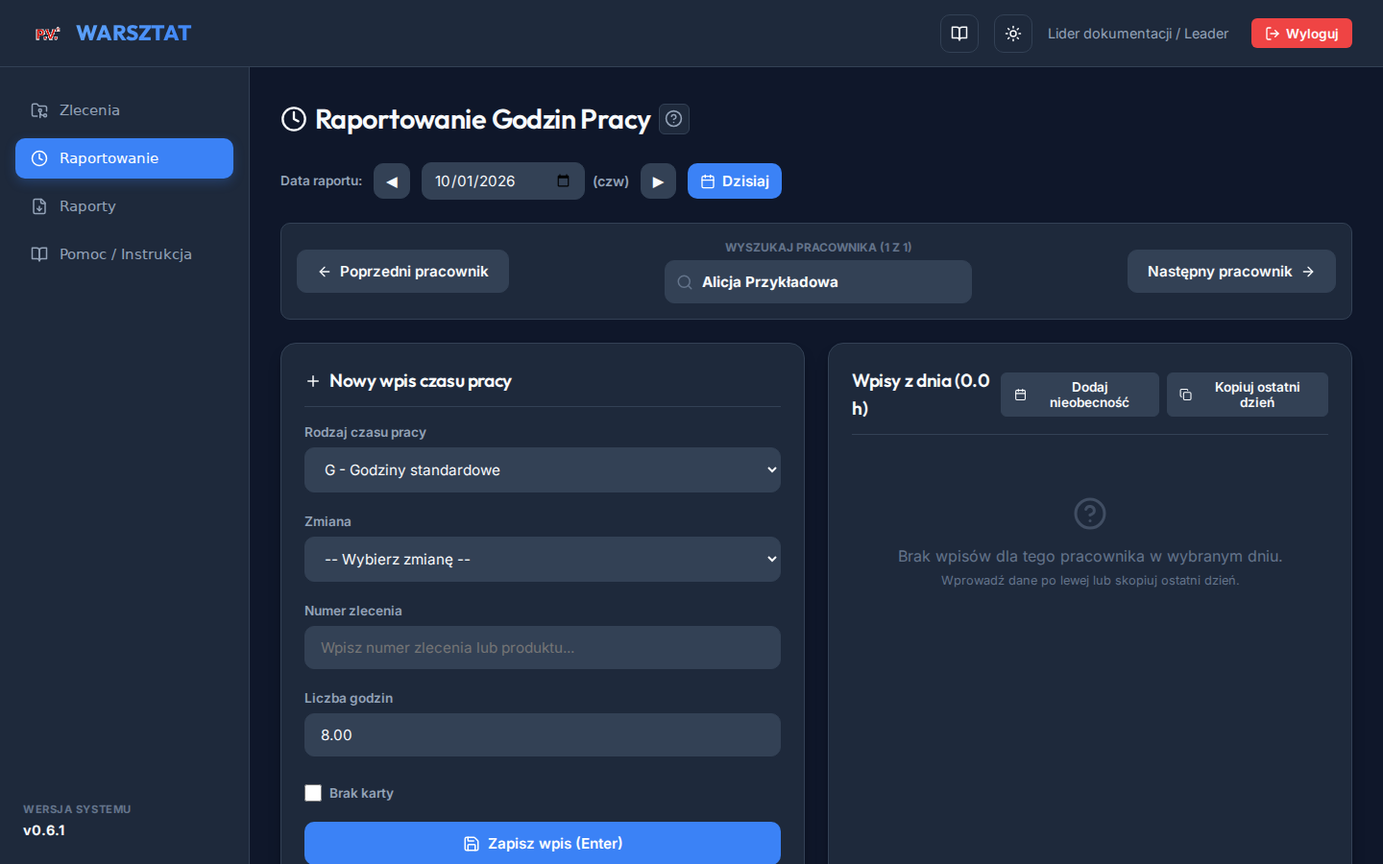
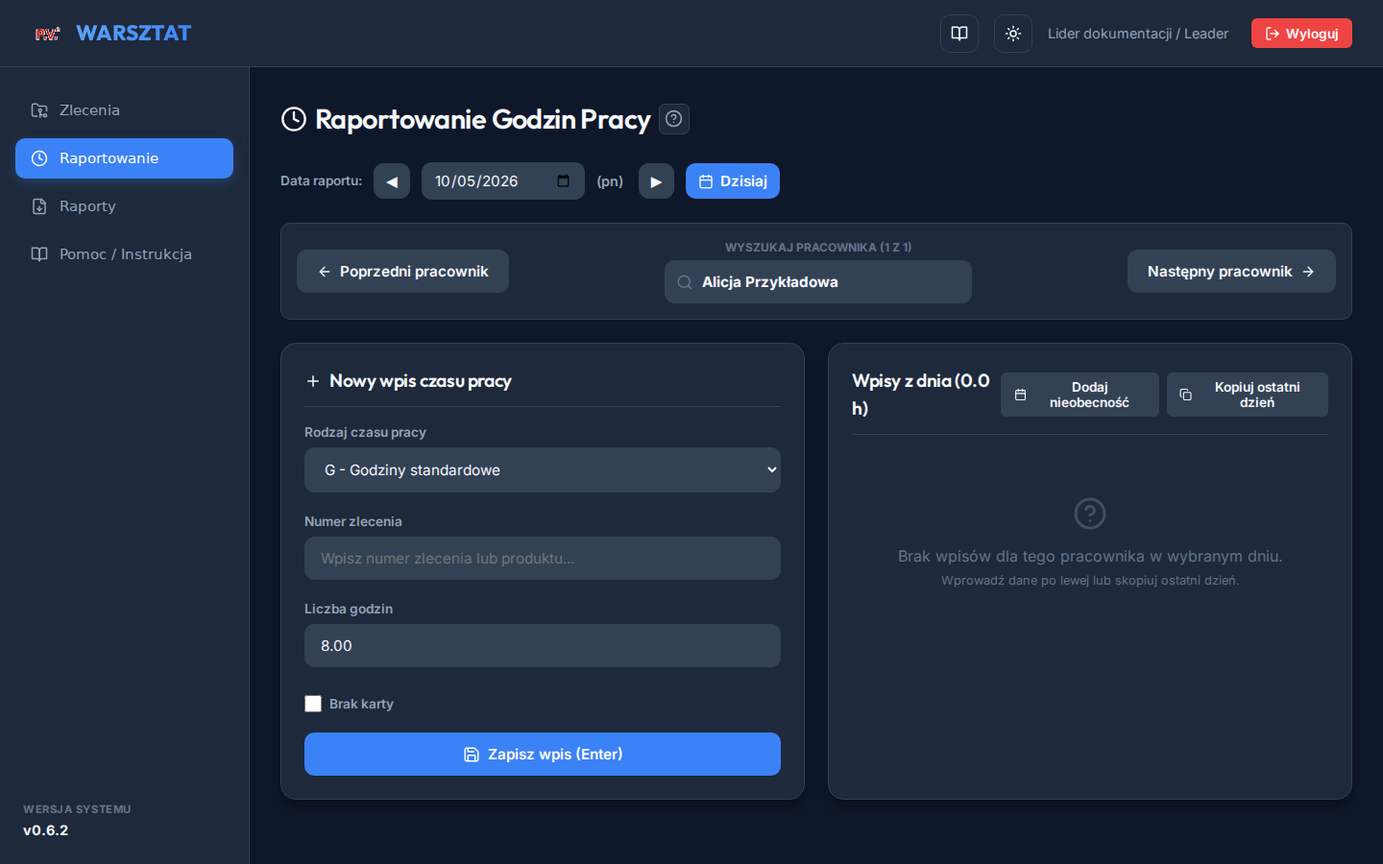
docs(v0.6.2): remove obsolete shift guidance

diff --git a/frontend/src/help/chapters.tsx b/frontend/src/help/chapters.tsx
@@ -1,7 +1,7 @@
 import type { ReactNode } from 'react';
 
 export type HelpRole = 'admin' | 'leader';
-export type HelpChapterId = 'pierwsze-kroki' | 'logowanie' | 'ekran-glowny' | 'rejestracja-czasu' | 'zmiany' | 'nieobecnosci' | 'kopiowanie-dnia' | 'baza-zlecen' | 'raport-hr' | 'raport-zlecen' | 'raport-nieobecnosci' | 'eksport' | 'kalendarz' | 'administracja' | 'faq';
+export type HelpChapterId = 'pierwsze-kroki' | 'logowanie' | 'ekran-glowny' | 'rejestracja-czasu' | 'nieobecnosci' | 'kopiowanie-dnia' | 'baza-zlecen' | 'raport-hr' | 'raport-zlecen' | 'raport-nieobecnosci' | 'eksport' | 'kalendarz' | 'administracja' | 'faq';
 export interface HelpScreenshotReference { id: string; alt: string; }
 export interface HelpChapter { id: HelpChapterId; title: string; roles: HelpRole[]; content: ReactNode; screenshots: HelpScreenshotReference[]; }
 const both: HelpRole[] = ['leader', 'admin'];
@@ -11,18 +11,17 @@ export const helpChapters: HelpChapter[] = [
   { id: 'pierwsze-kroki', title: 'Pierwsze kroki', roles: both, content: <><p>Warsztat służy do rejestrowania godzin przy zleceniach i nieobecności oraz do przygotowania raportów. Po zalogowaniu wybierz zadanie z menu.</p><p>Leader korzysta z Raportowania, Zleceń i Raportów. Administrator dodatkowo zarządza pracownikami, użytkownikami, słownikami, kalendarzem i importami oraz widzi pulpit.</p><p>Rozdziały z odznaką Administrator opisują czynności wymagające tej roli.</p></>, screenshots: [] },
   { id: 'logowanie', title: 'Logowanie', roles: both, content: <><p>Wpisz otrzymany login i hasło, a następnie wybierz <strong>Zaloguj się</strong>. Przełącznik motywu zmienia wygląd ekranu.</p><p>Po wygaśnięciu sesji albo aktualizacji aplikacji zaloguj się ponownie. Jeśli konto zostało dezaktywowane, skontaktuj się z administratorem.</p></>, screenshots: [shot('login-empty', 'Ekran logowania systemu Warsztat')] },
   { id: 'ekran-glowny', title: 'Ekran główny', roles: both, content: <><p>Menu boczne prowadzi do dostępnych ekranów. Leader widzi Raportowanie, Zlecenia, Raporty i Pomoc. Administrator widzi także Pulpit, Pracowników, Użytkowników, Słowniki, Kalendarz zakładowy i Importy.</p><h2>Pulpit administratora</h2><p>Pulpit pokazuje liczbę zleceń według statusu, godziny dzisiaj i w miesiącu oraz wykorzystanie planu godzin zleceń.</p></>, screenshots: [shot('nav-admin', 'Menu administratora'), shot('nav-leader', 'Menu lidera'), shot('dashboard', 'Pulpit administratora')] },
-  { id: 'rejestracja-czasu', title: 'Rejestracja czasu pracy', roles: both, content: <><p>W Raportowaniu wybierz datę i pracownika. Strzałki zmieniają dzień, a „Dzisiaj” przywraca bieżącą datę. Skrót obok daty wskazuje dzień tygodnia.</p><ol><li>Wybierz rodzaj czasu. Zwykły dzień roboczy podpowiada G; zwykły weekend NS, jeśli ten kod istnieje. Dzień wolny może pozostawić wybór pusty.</li><li>Dla pracy wymagającej zlecenia wybierz aktywne zlecenie z wyszukiwarki.</li><li>Wpisz godziny i zapisz. Wyszukiwarki pracownika i zlecenia obsługują klawiaturę; Enter przeprowadza przez formularz.</li></ol><p>Rejestracja nie wymaga już wyboru zmiany I, II ani III. Przy przekroczeniu progów 8, 12 lub 24 godzin sprawdź ostrzeżenie i wybierz „Anuluj” albo „Ignoruj i zapisz”.</p></>, screenshots: [shot('reporting-filled', 'Wypełniony formularz czasu pracy'), shot('reporting-tablet', 'Raportowanie na tablecie'), shot('hours-warning', 'Ostrzeżenie dotyczące sumy godzin')] },
-  { id: 'zmiany', title: 'Zmiany I / II / III (dane historyczne)', roles: both, content: <><p>Nowy wpis czasu pracy nie wymaga wyboru zmiany. Formularz Raportowania nie zawiera pola „Zmiana”, a nowe wpisy zapisują się bez zmiany.</p><p>Historyczne wpisy sprzed tej zmiany mogą nadal przechowywać zmianę I, II lub III. Taka zmiana pozostaje widoczna w liście wpisów dnia i jest zachowywana przy edycji. Raport miesięczny pracowników sumuje wszystkie zmiany w jednym wierszu pracownika.</p></>, screenshots: [shot('absence-shift-disabled', 'Wybór nieobecności w formularzu czasu pracy')] },
+  { id: 'rejestracja-czasu', title: 'Rejestracja czasu pracy', roles: both, content: <><p>W Raportowaniu wybierz datę i pracownika. Strzałki zmieniają dzień, a „Dzisiaj” przywraca bieżącą datę. Skrót obok daty wskazuje dzień tygodnia.</p><ol><li>Wybierz rodzaj czasu. Zwykły dzień roboczy podpowiada G; zwykły weekend NS, jeśli ten kod istnieje. Dzień wolny może pozostawić wybór pusty.</li><li>Dla pracy wymagającej zlecenia wybierz aktywne zlecenie z wyszukiwarki.</li><li>Wpisz godziny i zapisz. Wyszukiwarki pracownika i zlecenia obsługują klawiaturę; Enter przeprowadza przez formularz.</li></ol><p>Przy przekroczeniu progów 8, 12 lub 24 godzin sprawdź ostrzeżenie i wybierz „Anuluj” albo „Ignoruj i zapisz”.</p></>, screenshots: [shot('reporting-filled', 'Wypełniony formularz czasu pracy'), shot('reporting-tablet', 'Raportowanie na tablecie'), shot('hours-warning', 'Ostrzeżenie dotyczące sumy godzin')] },
   { id: 'nieobecnosci', title: 'Nieobecności', roles: both, content: <><p>Dla jednego dnia wybierz pracownika, datę, rodzaj oznaczony w słowniku jako nieobecność oraz godziny.</p><h2>Zakres nieobecności</h2><p>Otwórz rejestrację zakresu, podaj daty i rodzaj, sprawdź podgląd dni, a następnie zapisz. Dni wolne wynikające z kalendarza nie są zapisywane jako robocze dni nieobecności.</p></>, screenshots: [shot('absence-range', 'Podgląd zakresu nieobecności')] },
-  { id: 'kopiowanie-dnia', title: 'Kopiowanie poprzedniego dnia', roles: both, content: <><p>Po wybraniu pracownika i daty skopiuj strukturę wpisów z ostatniego dnia roboczego. Historyczne zmiany I, II i III, jeśli występują w źródle, pozostają przy wpisach pracy; nieobecności nie otrzymują zmiany.</p><p>Kopiowanie jest blokowane, gdy cel ma już wpisy albo jest dniem wolnym. Sprawdź komunikat i datę, a następnie ponów operację.</p></>, screenshots: [shot('copied-day-shifts', 'Lista skopiowanych wpisów dnia')] },
+  { id: 'kopiowanie-dnia', title: 'Kopiowanie poprzedniego dnia', roles: both, content: <><p>Po wybraniu pracownika i daty skopiuj strukturę wpisów z ostatniego dnia roboczego. Skopiowane wpisy zachowują rodzaj czasu, liczbę godzin i zlecenie.</p><p>Kopiowanie jest blokowane, gdy cel ma już wpisy albo jest dniem wolnym. Sprawdź komunikat i datę, a następnie ponów operację.</p></>, screenshots: [shot('copied-day', 'Lista skopiowanych wpisów dnia')] },
   { id: 'baza-zlecen', title: 'Baza zleceń', roles: both, content: <><p>Wyszukuj po numerze, produkcie lub koncie księgowym. Filtr statusu i sortowanie zawężają widok. Leader może przeglądać i eksportować zlecenia; administrator może je dodawać i edytować.</p><p>Przy zamykaniu zlecenia podaj datę zakończenia. Historyczne zlecenia pozostają w raportach, lecz nie służą do nowych wpisów pracy.</p></>, screenshots: [shot('orders', 'Tabela zleceń i filtry')] },
-  { id: 'raport-hr', title: 'Raport HR (wg pracowników)', roles: both, content: <><p>W Centrum Raportów otwórz „Godziny wg Pracowników”, ustaw miesiąc i wygeneruj raport. Każdy pracownik ma jeden wiersz. Kolumna <strong>Suma godzin z nadgodzinami</strong> obejmuje cały czas pracy z nadgodzinami, a <strong>Suma godzin bez nadgodzin</strong> obejmuje pracę normatywną oraz płatne nieobecności.</p><p>Historyczne zmiany <strong>I</strong>, <strong>II</strong> i <strong>III</strong> są sumowane w jednym wierszu pracownika, dlatego raport nie zawiera kolumny „Zmiana” ani osobnych wierszy zmian. NN (nieusprawiedliwiona, niepłatna) nie zwiększa żadnej z sum, ale pozostaje widoczne w kolumnie rodzaju czasu. Eksporty XLSX i CSV mają identyczną strukturę kolumn.</p></>, screenshots: [shot('hr-overview', 'Raport pracowników z jedną sumą na pracownika'), shot('hr-tablet', 'Raport HR na tablecie')] },
+  { id: 'raport-hr', title: 'Raport HR (wg pracowników)', roles: both, content: <><p>W Centrum Raportów otwórz „Godziny wg Pracowników”, ustaw miesiąc i wygeneruj raport. Każdy pracownik ma jeden wiersz. Kolumna <strong>Suma godzin z nadgodzinami</strong> obejmuje cały czas pracy z nadgodzinami, a <strong>Suma godzin bez nadgodzin</strong> obejmuje pracę normatywną oraz płatne nieobecności.</p><p>NN (nieusprawiedliwiona, niepłatna) nie zwiększa żadnej z sum, ale pozostaje widoczne w kolumnie rodzaju czasu. Eksporty XLSX i CSV mają identyczną strukturę kolumn.</p></>, screenshots: [shot('hr-overview', 'Raport pracowników z jedną sumą na pracownika'), shot('hr-tablet', 'Raport HR na tablecie')] },
   { id: 'raport-zlecen', title: 'Raport wg zleceń', roles: both, content: <><p>Ustaw zakres i wygeneruj „Godziny wg Zleceń”. Godziny rzeczywiste dotyczą wybranego okresu, a odchylenie i procent realizacji uwzględniają postęp narastająco od daty zlecenia do końca okresu.</p><h2>Raport zamknięcia i kontrola</h2><p>Tryb zamknięcia uwzględnia zlecenia otwarte z godzinami i zamknięte w okresie. „Kontrola rozliczenia czasu” porównuje godziny zleceń i nieobecności z sumą godzin pracowników. Przy wyniku „Niezgodne” sprawdź różnicę i wpisy diagnostyczne.</p></>, screenshots: [shot('by-order', 'Raport godzin według zleceń'), shot('closure-control', 'Raport zamknięcia i sumy kontrolne')] },
   { id: 'raport-nieobecnosci', title: 'Raport nieobecności', roles: both, content: <><p>Wybierz „Okresy nieobecności”, ustaw zakres i wygeneruj raport. Kolejne dni robocze tej samej nieobecności tworzą okres. Weekend, święto lub firmowy dzień wolny może go łączyć bez zwiększania liczby dni roboczych.</p><p>Filtry zawężają wyniki, a stopka podaje łączną liczbę dni nieobecności.</p></>, screenshots: [shot('absence-periods', 'Raport okresów nieobecności i suma dni')] },
   { id: 'eksport', title: 'Eksport CSV/XLSX', roles: both, content: <><p>Po ustawieniu filtrów użyj przycisku eksportu XLSX lub CSV. Eksporty raportów zawierają nagłówki z zakresem i filtrami. Raport HR ma stałą strukturę kolumn (pracownik i sumy), a raport zamknięcia wyniki kontroli.</p><p>Baza zleceń ma osobny eksport Excel bieżącego widoku. Plik zapisuje przeglądarka zgodnie z jej ustawieniami.</p></>, screenshots: [shot('export-actions', 'Przyciski eksportu raportu')] },
   { id: 'kalendarz', title: 'Kalendarz zakładowy', roles: ['admin'], content: <><p>Edycja wymaga roli Administrator. Wybierz zakres, sprawdź dni robocze i wolne, a dla wybranej daty zapisz wyjątek „Dzień roboczy” albo „Dzień wolny” z opcjonalnym opisem.</p><p>Wyjątek ma pierwszeństwo przed weekendem i świętem. Kalendarz wpływa na domyślny rodzaj czasu oraz dozwolone wpisy w dniu wolnym. Leader widzi skutek w formularzu, ale nie edytuje kalendarza.</p></>, screenshots: [shot('calendar', 'Kalendarz zakładowy z wyjątkiem')] },
   { id: 'administracja', title: 'Administracja', roles: ['admin'], content: <><p>Ten rozdział wymaga roli Administrator. W „Pracownikach” zarządzaj kartoteką i aktywnością; w „Użytkownikach” kontami i rolami. Samodzielna dezaktywacja konta lub odebranie sobie roli administratora jest blokowane.</p><h2>Słowniki</h2><p>Rodzaje czasu definiują kod, nazwę, wymóg zlecenia i oznaczenie nieobecności. Typy systemowe są chronione.</p><h2>Importy</h2><p>Pobierz szablon XLSX dla pracowników lub zleceń, wczytaj uzupełniony plik i sprawdź liczbę poprawnych oraz błędnych wierszy w historii.</p></>, screenshots: [shot('dictionaries', 'Słownik rodzajów czasu pracy'), shot('imports', 'Szablony i historia importów')] },
-  { id: 'faq', title: 'Najczęstsze problemy / FAQ', roles: both, content: <><h2>Nie mogę zapisać pracy</h2><p>Wybierz wymagane zlecenie, jeśli rodzaj czasu go wymaga. Wybór zmiany nie jest już potrzebny.</p><h2>Nie mogę skopiować dnia</h2><p>Cel może już mieć wpisy albo być dniem wolnym. Sprawdź komunikat i daty.</p><h2>Ostrzeżenie o godzinach</h2><p>Sprawdź sumę dnia przed „Ignoruj i zapisz”. Progi dotyczą 8 godzin pracy standardowej oraz 12 i 24 godzin łącznie.</p><h2>Poprzednie filtry w raporcie</h2><p>Każda zakładka pamięta filtry w bieżącej karcie przeglądarki. Użyj „Wyczyść filtry” lub zmień zakres.</p></>, screenshots: [] },
+  { id: 'faq', title: 'Najczęstsze problemy / FAQ', roles: both, content: <><h2>Nie mogę zapisać pracy</h2><p>Wybierz wymagane zlecenie, jeśli rodzaj czasu go wymaga.</p><h2>Nie mogę skopiować dnia</h2><p>Cel może już mieć wpisy albo być dniem wolnym. Sprawdź komunikat i daty.</p><h2>Ostrzeżenie o godzinach</h2><p>Sprawdź sumę dnia przed „Ignoruj i zapisz”. Progi dotyczą 8 godzin pracy standardowej oraz 12 i 24 godzin łącznie.</p><h2>Poprzednie filtry w raporcie</h2><p>Każda zakładka pamięta filtry w bieżącej karcie przeglądarki. Użyj „Wyczyść filtry” lub zmień zakres.</p></>, screenshots: [] },
 ];
 
 export const getHelpChapter = (id: string | null): HelpChapter => helpChapters.find((chapter) => chapter.id === id) ?? helpChapters[0];

diff --git a/frontend/docs-screenshots/manifest.ts b/frontend/docs-screenshots/manifest.ts
@@ -23,12 +23,11 @@ export const screenshotManifest: DocsScreenshot[] = [
   entry('login-empty', 'logowanie', 'login', 'anonymous', 'logowanie-01-ekran-logowania.png', 'Ekran logowania aplikacji Warsztat.', ['open login']),
   entry('nav-admin', 'ekran-glowny', 'dashboard', 'admin', 'ekran-glowny-01-admin-menu.png', 'Menu administratora z pełnym zakresem ekranów.', ['log in as docs-admin']),
   entry('nav-leader', 'ekran-glowny', 'reporting', 'leader', 'ekran-glowny-02-leader-menu.png', 'Menu lidera z Raportowaniem, Zleceniami, Raportami i Pomocą.', ['log in as docs-leader']),
-  entry('reporting-filled', 'rejestracja-czasu', 'reporting', 'leader', 'rejestracja-czasu-01-wypelniony-formularz.png', 'Przykładowy wpis G z zleceniem przed zapisem (bez wyboru zmiany).', ['select date 2026-07-08', 'select fictional order', 'enter hours']),
+  entry('reporting-filled', 'rejestracja-czasu', 'reporting', 'leader', 'rejestracja-czasu-01-wypelniony-formularz.png', 'Przykładowy wpis G z zleceniem przed zapisem.', ['select date 2026-07-08', 'select fictional order', 'enter hours']),
   entry('reporting-tablet', 'rejestracja-czasu', 'reporting', 'leader', 'rejestracja-czasu-02-tablet.png', 'Ten sam formularz na tablecie lidera.', ['select date and fill entry'], tablet),
-  entry('absence-shift-disabled', 'zmiany', 'reporting', 'leader', 'zmiany-01-nieobecnosc.png', 'Wybór nieobecności w formularzu czasu pracy; pole zmiany nie występuje.', ['select WKU', 'verify no shift selector']),
   entry('hours-warning', 'rejestracja-czasu', 'reporting', 'leader', 'rejestracja-czasu-03-ostrzezenie.png', 'Ostrzeżenie o sumie godzin z możliwością anulowania.', ['fill 9 hours', 'attempt save']),
   entry('absence-range', 'nieobecnosci', 'reporting', 'leader', 'nieobecnosci-01-zakres.png', 'Podgląd zakresu nieobecności przed zapisem.', ['open absence range', 'select date range']),
-  entry('copied-day-shifts', 'kopiowanie-dnia', 'reporting', 'leader', 'kopiowanie-dnia-01-zmiany.png', 'Skopiowane wpisy zachowują etykiety zmian I, II i III.', ['select 2026-07-08', 'copy previous day']),
+  entry('copied-day', 'kopiowanie-dnia', 'reporting', 'leader', 'kopiowanie-dnia-01-wpisy.png', 'Lista wpisów skopiowanych z poprzedniego dnia roboczego.', ['select 2026-07-08', 'copy previous day']),
   entry('orders', 'baza-zlecen', 'orders', 'admin', 'baza-zlecen-01-filtry.png', 'Baza zleceń z wyszukiwaniem i filtrem statusu.', ['open Orders', 'search DOC']),
   entry('hr-overview', 'raport-hr', 'reports', 'admin', 'raport-hr-01-podsumowanie.png', 'Raport pracowników z jedną sumą na pracownika i dynamicznymi kolumnami rodzajów czasu.', ['select by-employee', 'filter July 2026']),
   entry('hr-tablet', 'raport-hr', 'reports', 'leader', 'raport-hr-02-tablet.png', 'Raport HR na tablecie z przewijaną tabelą.', ['select by-employee', 'filter July 2026'], tablet),

diff --git a/frontend/docs-screenshots/capture.spec.ts b/frontend/docs-screenshots/capture.spec.ts
@@ -27,7 +27,7 @@ async function openTab(page: Page, tab: DocsScreenshot['tab']) {
 }
 
 async function fillReporting(page: Page, entry: DocsScreenshot) {
-  const dayResponse = entry.id === 'copied-day-shifts'
+  const dayResponse = entry.id === 'copied-day'
     ? page.waitForResponse((response) => response.url().includes('/api/reports/by-employee-date') && response.url().includes('date=2026-07-08'))
     : null;
   await page.locator('#dateInput').fill('2026-07-08');
@@ -43,17 +43,25 @@ async function fillReporting(page: Page, entry: DocsScreenshot) {
     await modal.getByText('Podsumowanie zakresu:').click();
     return;
   }
-  if (entry.id === 'copied-day-shifts') {
+  if (entry.id === 'copied-day') {
     if (existingDay?.length === 0) await page.getByRole('button', { name: 'Kopiuj ostatni dzień' }).click();
-    await expect(page.getByText('III zmiana')).toBeVisible();
+    await expect(page.locator('.table tbody tr').first()).toBeVisible();
+    await expect(page.getByText('I zmiana')).toHaveCount(0);
+    await expect(page.getByText('II zmiana')).toHaveCount(0);
+    await expect(page.getByText('III zmiana')).toHaveCount(0);
     await expect(page.locator('.alert-danger')).toHaveCount(0);
     await expect(page.getByText(/Skopiowano 3 wpisów/)).toHaveCount(0, { timeout: 10_000 });
+    // Remove the copied rows again through the API so the documentation fixture
+    // stays deterministic for the specs that run afterwards. The rendered DOM is
+    // left untouched, so the screenshot still shows the copied entries.
+    const token = await page.evaluate(() => localStorage.getItem('token'));
+    const headers = { Authorization: `Bearer ${token}` };
+    const copied = await (await page.request.get(
+      '/api/reports/by-employee-date?employeeId=00000000-0000-4000-8000-000000000001&date=2026-07-08',
+      { headers },
+    )).json() as Array<{ id: string }>;
+    for (const report of copied) await page.request.delete(`/api/reports/${report.id}`, { headers });
     await page.getByRole('heading', { name: 'Raportowanie Godzin Pracy' }).click();
-    return;
-  }
-  if (entry.id === 'absence-shift-disabled') {
-    await page.locator('#workTypeSelect').selectOption('WKU');
-    await expect(page.locator('#workShiftSelect')).toHaveCount(0);
     return;
   }
   await page.locator('#workTypeSelect').selectOption('G');

diff --git a/backend/prisma/docs-seed-data.ts b/backend/prisma/docs-seed-data.ts
@@ -29,9 +29,9 @@ export async function seedDocs(prisma: PrismaClient, databaseUrl: string | undef
   await prisma.order.upsert({ where: { orderNumber: order.orderNumber }, update: order, create: order });
 
   const reports = [
-    { id: '00000000-0000-4000-8000-000000000301', date: new Date('2026-07-07T00:00:00.000Z'), hours: 2, workTimeTypeCode: 'G', workShift: 'FIRST' as const, orderId: order.id },
-    { id: '00000000-0000-4000-8000-000000000302', date: new Date('2026-07-07T00:00:00.000Z'), hours: 2, workTimeTypeCode: 'G', workShift: 'SECOND' as const, orderId: order.id },
-    { id: '00000000-0000-4000-8000-000000000303', date: new Date('2026-07-07T00:00:00.000Z'), hours: 2, workTimeTypeCode: 'G', workShift: 'THIRD' as const, orderId: order.id },
+    { id: '00000000-0000-4000-8000-000000000301', date: new Date('2026-07-07T00:00:00.000Z'), hours: 2, workTimeTypeCode: 'G', workShift: null, orderId: order.id },
+    { id: '00000000-0000-4000-8000-000000000302', date: new Date('2026-07-07T00:00:00.000Z'), hours: 2, workTimeTypeCode: 'G', workShift: null, orderId: order.id },
+    { id: '00000000-0000-4000-8000-000000000303', date: new Date('2026-07-07T00:00:00.000Z'), hours: 2, workTimeTypeCode: 'G', workShift: null, orderId: order.id },
     { id: '00000000-0000-4000-8000-000000000304', date: new Date('2026-07-09T00:00:00.000Z'), hours: 8, workTimeTypeCode: 'WKU', workShift: null, orderId: null },
     { id: '00000000-0000-4000-8000-000000000305', date: new Date('2026-07-10T00:00:00.000Z'), hours: 8, workTimeTypeCode: 'WKU', workShift: null, orderId: null },
   ];

diff --git a/docs/user-guide.md b/docs/user-guide.md
@@ -2,7 +2,7 @@
 
 ## Instrukcja w aplikacji
 
-W implementacji v0.6.0 aplikacja udostępnia pozycję **Pomoc / Instrukcja** dla Administratora i Leadera. Wbudowany przewodnik zawiera 15 rozdziałów: od logowania i rejestracji pracy po raporty, eksport, kalendarz, administrację i FAQ. Każdy rozdział ma oznaczenie roli i rzeczywiste zrzuty odpowiednich ekranów. Rozdziały można otwierać także adresem `#help/<identyfikator-rozdziału>`; przykład: `#help/logowanie`.
+W implementacji v0.6.0 aplikacja udostępnia pozycję **Pomoc / Instrukcja** dla Administratora i Leadera. Wbudowany przewodnik zawiera 14 rozdziałów: od logowania i rejestracji pracy po raporty, eksport, kalendarz, administrację i FAQ. Każdy rozdział ma oznaczenie roli i rzeczywiste zrzuty odpowiednich ekranów. Rozdziały można otwierać także adresem `#help/<identyfikator-rozdziału>`; przykład: `#help/logowanie`.
 Po wybraniu zwykłej zakładki aplikacja usuwa adres rozdziału Pomocy i po odświeżeniu przywraca wybraną zakładkę.
 Przyciski pomocy przy Raportowaniu, raporcie pracowników, raporcie zleceń, Bazie zleceń i Kalendarzu zakładowym otwierają właściwy rozdział. Na tablecie lista rozdziałów jest rozwijana nad treścią. Zrzuty pochodzą z fikcyjnej bazy dokumentacyjnej `*_docs`.
 
@@ -20,12 +20,12 @@ Rzeczywisty ekran: [Logowanie](../frontend/public/help/logowanie-01-ekran-logowa
 2. Formularz automatycznie podpowiada domyślny rodzaj czasu pracy zgodnie z Kalendarzem zakładowym: zwykły dzień roboczy to `G` (Godziny standardowe), a zwykła sobota lub niedziela to `NS` (Nadgodziny sobota/niedziela), jeżeli dany kod istnieje w słowniku. Święto ustawowe lub firmowy dzień wolny pozostawia typ pusty. Firma może oznaczyć sobotę albo niedzielę jako dzień roboczy — wtedy formularz podpowiada `G`. Jeśli wymagany typ (`G` lub `NS`) nie istnieje w słowniku, formularz pozostawia typ pusty.
 3. Wyszukaj pracownika po nazwie lub identyfikatorze; możesz użyć przycisków poprzedni/następny.
 4. Wybierz rodzaj czasu. Jeśli wymaga zlecenia (np. `NS`), wyszukaj aktywne zlecenie po numerze, produkcie lub koncie. W dni wolne praca jest dopuszczalna wyłącznie ze zleceniem.
-5. Wprowadź dodatnią liczbę godzin i zapisz. Wybór zmiany roboczej nie jest już wymagany — formularz nie zawiera pola **Zmiana**.
+5. Wprowadź dodatnią liczbę godzin i zapisz.
 6. Klawisze strzałek i Enter obsługują listy i przejście do pola godzin.
 
 Rzeczywisty ekran: [Wypełniony formularz Raportowania](../frontend/public/help/rejestracja-czasu-01-wypelniony-formularz.png).
 
-Wpisy wybranego pracownika i dnia są widoczne obok formularza. Historyczne wpisy mogą pokazywać etykietę przypisanej zmiany (`I zmiana`, `II zmiana`, `III zmiana`); nowe wpisy nie mają zmiany, więc etykieta się nie pojawia. Możesz ręcznie wybrać inny dozwolony rodzaj czasu pracy niż podpowiedź. **Edytuj** ładuje wpis do formularza, zachowując jego zapisany typ czasu, zlecenie, liczbę godzin i oznaczenie braku karty; historyczna zmiana pozostaje zachowana, ale nie jest już wybierana w formularzu. **Usuń** wymaga potwierdzenia i wykonuje soft delete. **Kopiuj ostatni dzień** kopiuje wyłącznie wpisy aktualnie wybranego pracownika z jego najnowszej wcześniejszej daty wraz z ewentualną przypisaną zmianą `I`, `II`, `III` dla wpisów obecności (dla nieobecności zmiana wynosi null). Brak zmiany w źródle nie blokuje kopiowania. Wybranie soboty lub niedzieli jako dnia docelowego blokuje całą operację bez utworzenia wpisów, niezależnie od ich rodzaju. Podczas operacji przycisk jest zablokowany. Jeśli wybrany dzień zawiera już wpis tego pracownika, aplikacja nie dopisze danych i wyświetli komunikat o konflikcie.
+Wpisy wybranego pracownika i dnia są widoczne obok formularza. Możesz ręcznie wybrać inny dozwolony rodzaj czasu pracy niż podpowiedź. **Edytuj** ładuje wpis do formularza, zachowując jego zapisany typ czasu, zlecenie, liczbę godzin i oznaczenie braku karty. **Usuń** wymaga potwierdzenia i wykonuje soft delete. **Kopiuj ostatni dzień** kopiuje wyłącznie wpisy aktualnie wybranego pracownika z jego najnowszej wcześniejszej daty. Wybranie soboty lub niedzieli jako dnia docelowego blokuje całą operację bez utworzenia wpisów, niezależnie od ich rodzaju. Podczas operacji przycisk jest zablokowany. Jeśli wybrany dzień zawiera już wpis tego pracownika, aplikacja nie dopisze danych i wyświetli komunikat o konflikcie.
 
 Jeśli kod `G` przekroczy 8 godzin lub suma przekroczy 12/24 godziny, pojawi się ostrzeżenie. Można anulować albo wybrać **Ignoruj i zapisz**.
 
@@ -65,6 +65,6 @@ Rzeczywisty ekran: [Import danych](../frontend/public/help/administracja-02-impo
 
 ## Poprawki raportu i Pomocy v0.6.2
 
-W miesięcznym raporcie pracników usunięto kolumnę **Zmiana** oraz **Łącznie przepracowane w okresie** (która duplikowała sumę godzin z nadgodzinami). Raport pokazuje teraz jeden wiersz na pracownika z kolumnami: **Pracownik**, **Suma godzin z nadgodzinami** (przepracowane godziny z nadgodzinami), **Suma godzin bez nadgodzin** (godziny normatywne + płatne nieobecności: UW, L4, UOK, UŻ itp., bez nadgodzin i bez NN), oraz dynamiczne kolumny poszczególnych rodzajów czasu pracy. NN pozostaje widoczne jako czas niepłatny i jest wyłączone z obu sum. Płatne nieobecności (urlopy, L4) zwiększają tylko **Sumę godzin bez nadgodzin**.
+W miesięcznym raporcie pracowników usunięto kolumnę **Łącznie przepracowane w okresie** (duplikowała sumę godzin z nadgodzinami). Raport pokazuje teraz jeden wiersz na pracownika z kolumnami: **Pracownik**, **Suma godzin z nadgodzinami** (przepracowane godziny z nadgodzinami), **Suma godzin bez nadgodzin** (godziny normatywne + płatne nieobecności: UW, L4, UOK, UŻ itp., bez nadgodzin i bez NN), oraz dynamiczne kolumny poszczególnych rodzajów czasu pracy. NN pozostaje widoczne jako czas niepłatny i jest wyłączone z obu sum. Płatne nieobecności (urlopy, L4) zwiększają tylko **Sumę godzin bez nadgodzin**.
 
 W Pomocy przewijaj główną treść, aby dotrzeć do dolnej części rozdziału i przycisków Poprzedni/Następny. Nagłówek aplikacji i sidebar zachowują własny układ. Na tablecie listę rozdziałów można zwinąć.

diff --git a/README.md b/README.md
@@ -67,15 +67,15 @@ Zapewnia administratorom syntetyczne spojrzenie na statusy produkcyjne:
 
 ### 3. Panel Szybkiego Raportowania (Raportowanie)
 * **Wyszukiwarka pracowników**: Panel wyboru filtrujący na żywo po imieniu, nazwisku i numerze ewidencyjnym pracownika.
-* **Ewidencja czasu pracy**: Nowe wpisy obecności (czasu przepracowanego) nie wymagają już wyboru zmiany i są zapisywane bez przypisanej zmiany. Historyczne wpisy mogą nadal przechowywać zmianę `I`, `II` lub `III`, która pozostaje widoczna na liście dnia i jest zachowywana przy edycji. Dla nieobecności zmiana pozostaje pusta.
+* **Ewidencja czasu pracy**: Wpis obecności (czasu przepracowanego) obejmuje rodzaj czasu, opcjonalne zlecenie, liczbę godzin i oznaczenie braku karty. Formularz rejestracji nie zawiera dodatkowych pól, a zapis jest zoptymalizowany pod szybkie wprowadzanie.
 * **Optymalizacja pod kątem szybkiego pisania**: Cały formularz obsługuje się bez użycia myszy – wciśnięcie klawisza `Enter` zatwierdza wybór zlecenia, pozwala wpisać godziny i zapisuje wpis, po czym kursor automatycznie wraca do wyboru kolejnego zlecenia.
 * **Przycisk "Dzisiaj"**: Jedno kliknięcie ustawia datę raportu na dzisiejszy dzień w lokalnej strefie czasowej, automatycznie odświeżając widoczne wpisy.
-* **Kopiowanie poprzedniego dnia**: Automatyczne powielenie struktury wpisów z ostatniego dnia roboczego wybranego pracownika (z zachowaniem ewentualnej historycznej zmiany `I`, `II`, `III` przy wpisach obecności) w celu przyspieszenia ewidencji powtarzalnych prac.
+* **Kopiowanie poprzedniego dnia**: Automatyczne powielenie struktury wpisów z ostatniego dnia roboczego wybranego pracownika w celu przyspieszenia ewidencji powtarzalnych prac.
 * **Ostrzeżenia dobowe (Soft Validation)**: Wyświetlanie ostrzeżeń w kolorach żółtym (Standard > 8h), pomarańczowym (Suma > 12h) lub czerwonym (Suma > 24h) bez blokowania możliwości zapisu.
 
 ### 4. Centrum Raportów (Raporty)
 * Generowanie okresowych zestawień i rozliczeń zleceniowych dla liderów oraz administracji.
-* **Miesięczny raport pracowników**: Pokazuje jeden wiersz na pracownika z kolumnami **Pracownik**, **Suma godzin z nadgodzinami** (przepracowane godziny z nadgodzinami), **Suma godzin bez nadgodzin** (godziny normatywne + płatne nieobecności: UW, L4, UOK, UŻ itp., bez nadgodzin i bez NN) oraz dynamicznymi kolumnami rodzajów czasu. Historia zmian `I`, `II`, `III` jest sumowana w jednym wierszu. NN pozostaje widoczne w swojej kolumnie, lecz jest wyłączone z obu sum. Ta sama struktura obowiązuje w widoku tabeli oraz eksportach XLSX i CSV.
+* **Miesięczny raport pracowników**: Pokazuje jeden wiersz na pracownika z kolumnami **Pracownik**, **Suma godzin z nadgodzinami** (przepracowane godziny z nadgodzinami), **Suma godzin bez nadgodzin** (godziny normatywne + płatne nieobecności: UW, L4, UOK, UŻ itp., bez nadgodzin i bez NN) oraz dynamicznymi kolumnami rodzajów czasu. NN pozostaje widoczne w swojej kolumnie, lecz jest wyłączone z obu sum. Ta sama struktura obowiązuje w widoku tabeli oraz eksportach XLSX i CSV.
 * Istniejący raport „Godziny wg zleceń” udostępnia tryb „Raport zamknięcia”, łączący otwarte zlecenia z godzinami oraz zlecenia zamknięte w wybranym okresie, także z zerową liczbą godzin.
 * Raport okresów nieobecności grupuje kolejne dni robocze tego samego pracownika i rodzaju nieobecności, mostkuje przez dni wolne (święta ustawowe, weekendy, wyjątki kalendarza), pozwala filtrować wyniki oraz eksportować je do XLSX i CSV.
 * Każdy raport zachowuje własne filtry w bieżącej sesji karty przeglądarki; wartości są odtwarzane po zmianie widoku i odświeżeniu strony, a zamknięcie karty usuwa je automatycznie.
@@ -300,7 +300,7 @@ Każda publikacja wersji systemu wiąże się ze spójnym podbiciem wersji jedno
 
 ### Użytkowanie
 
-* [Instrukcja użytkownika](docs/user-guide.md) – obsługa dla lidera i administratora. Wbudowana Pomoc / Instrukcja zawiera 15 rozdziałów, 20 rzeczywistych zrzutów oraz odnośniki kontekstowe przy pięciu ekranach; na tablecie rozdziały są w rozwijanym menu.
+* [Instrukcja użytkownika](docs/user-guide.md) – obsługa dla lidera i administratora. Wbudowana Pomoc / Instrukcja zawiera 14 rozdziałów, 19 rzeczywistych zrzutów oraz odnośniki kontekstowe przy pięciu ekranach; na tablecie rozdziały są w rozwijanym menu.
 * [Reguły biznesowe](docs/business-rules.md) – obowiązujące walidacje, statusy, audyt i zasady raportowania.
 * [Importy i eksporty](docs/import-export-specification.md) – formaty kolumn, walidacja i raporty plikowe.
 

diff --git a/PROJECT_STATUS.md b/PROJECT_STATUS.md
@@ -12,7 +12,7 @@
 
 Poprawka v0.6.1: NN i inne nieobecności nie zwiększają czasu przepracowanego. NN pozostaje widoczne, lecz nie uczestniczy w godzinach zleceń, KPI pracy ani obu sumach kontroli rozliczenia. Raport pracowników pokazuje osobną sumę okresu ponad podziałem zmian. Pomoc przewija się w głównej treści, również przy niskim viewporcie tabletu. Nie zmieniono schematu bazy. Weryfikacja po integracji: backend 225/225 testów, frontend 138/138, build obu projektów, lint, `docs:validate` 21/21. Development stack przebudowano na istniejącym wolumenie `workshop-time-tracking-dev_pgdata`; API health i baza są zdrowe, `/api/version` zwraca `0.6.1`, frontend odpowiada HTTP 200 na porcie 8085. Ręczna akceptacja funkcjonalna została udzielona. Ryzyko: niestandardowe kody nieobecności inne niż NN zachowują dotychczasową semantykę rozliczenia. Szczegóły: `V0.6.1_CLIENT_FEEDBACK_FIX_REPORT.md`.
 
-Prace v0.6.2 (branch `feature/v0.6.2-employee-report-shift-revert`, wersja docelowa): miesięczny raport pracowników wraca do jednego wiersza na pracownika, bez kolumny `Zmiana` i bez `Łącznie przepracowane w okresie`. `suma` pozostaje czasem pracy z nadgodzinami, a `sumaBezNadgodzin` obejmuje pracę normatywną i płatne nieobecności (UW, L4, UOK, UŻ, WKU i inne typy `isAbsence=true`), z wyłączeniem NN i nadgodzin. Historyczne zmiany `I`/`II`/`III` są sumowane w jednym wierszu. Zaktualizowano rozdział Pomocy „Raport HR” i zrzuty HR (manifest dokumentacji liczy 20 pozycji) oraz dokumentację biznesową i architekturę. W ramach v0.6.2 usunięto również wybór zmiany z formularza Raportowania: nowe wpisy zapisują się z `workShift=null`, a historyczne wartości `I`/`II`/`III` pozostają czytelne i zachowywane przy edycji. Schemat bazy danych oraz semantyka kontroli rozliczenia pozostają bez zmian. Metadane pakietów backendu i frontendu oraz `APP_VERSION` w plikach Compose zostały podniesione do `0.6.2`. Wersję 0.6.1 opisuje poniższy wpis.
+Prace v0.6.2 (branch `feature/v0.6.2-employee-report-shift-revert`, wersja docelowa): miesięczny raport pracowników wraca do jednego wiersza na pracownika, bez kolumny `Zmiana` i bez `Łącznie przepracowane w okresie`. `suma` pozostaje czasem pracy z nadgodzinami, a `sumaBezNadgodzin` obejmuje pracę normatywną i płatne nieobecności (UW, L4, UOK, UŻ, WKU i inne typy `isAbsence=true`), z wyłączeniem NN i nadgodzin. Historyczne zmiany `I`/`II`/`III` są sumowane w jednym wierszu. Zaktualizowano rozdział Pomocy „Raport HR” i zrzuty HR. W ramach v0.6.2 usunięto wybór zmiany z formularza Raportowania oraz rozdział Pomocy o zmianach; nowe wpisy zapisują się z `workShift=null`, a historyczne wartości `I`/`II`/`III` pozostają czytelne i zachowywane przy edycji. Manifest dokumentacji liczy 19 pozycji. Schemat bazy danych oraz semantyka kontroli rozliczenia pozostają bez zmian. Metadane pakietów backendu i frontendu oraz `APP_VERSION` w plikach Compose zostały podniesione do `0.6.2`. Wersję 0.6.1 opisuje poniższy wpis.
 
 Zakres v0.6.0: 15 rozdziałów Pomocy, 21 rzeczywistych zrzutów Playwright, pięć odnośników kontekstowych, rozwijana lista rozdziałów na tablecie i walidacja zasobów w skrypcie wydania. Fixture obejmuje wyłącznie fikcyjne rekordy w bazie zakończonej `_docs`. Dwie świeże bazy dokumentacyjne miały identyczne migawki; ponowny seed nie zmienił danych. Akceptacja ręczna: PASSED. Wyniki automatycznej walidacji i zakres wydania opisuje raport końcowy v0.6.0.
 
